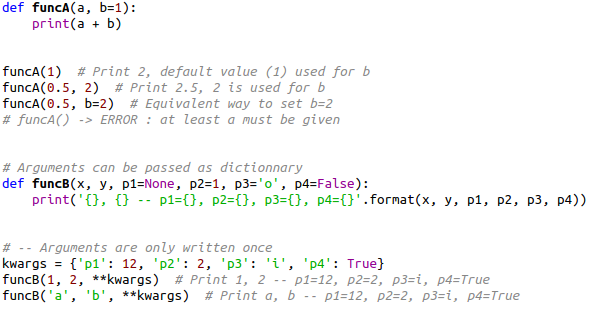
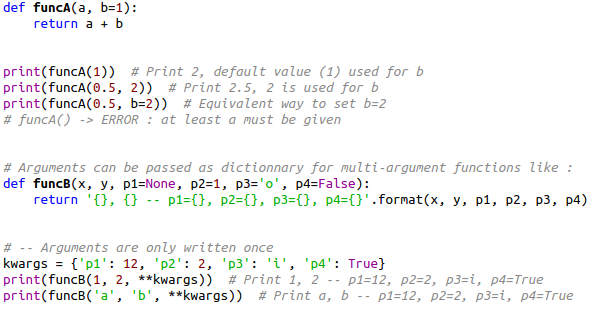
TL: it's better that way

diff --git a/examples/code-examples.py b/examples/code-examples.py
@@ -76,21 +76,21 @@ while i < 10:
 
 # %% Slide : Function definition
 def funcA(a, b=1):
-    print(a + b)
+    return a + b
 
 
-funcA(1)  # Print 2, default value (1) used for b
-funcA(0.5, 2)  # Print 2.5, 2 is used for b
-funcA(0.5, b=2)  # Equivalent way to set b=2
+print(funcA(1))  # Print 2, default value (1) used for b
+print(funcA(0.5, 2))  # Print 2.5, 2 is used for b
+print(funcA(0.5, b=2))  # Equivalent way to set b=2
 # funcA() -> ERROR : at least a must be given
 
 
-# Arguments can be passed as dictionnary
+# Arguments can be passed as dictionnary for multi-argument functions like :
 def funcB(x, y, p1=None, p2=1, p3='o', p4=False):
-    print('{}, {} -- p1={}, p2={}, p3={}, p4={}'.format(x, y, p1, p2, p3, p4))
+    return '{}, {} -- p1={}, p2={}, p3={}, p4={}'.format(x, y, p1, p2, p3, p4)
 
 
 # -- Arguments are only written once
 kwargs = {'p1': 12, 'p2': 2, 'p3': 'i', 'p4': True}
-funcB(1, 2, **kwargs)  # Print 1, 2 -- p1=12, p2=2, p3=i, p4=True
-funcB('a', 'b', **kwargs)  # Print a, b -- p1=12, p2=2, p3=i, p4=True
+print(funcB(1, 2, **kwargs))  # Print 1, 2 -- p1=12, p2=2, p3=i, p4=True
+print(funcB('a', 'b', **kwargs))  # Print a, b -- p1=12, p2=2, p3=i, p4=True
